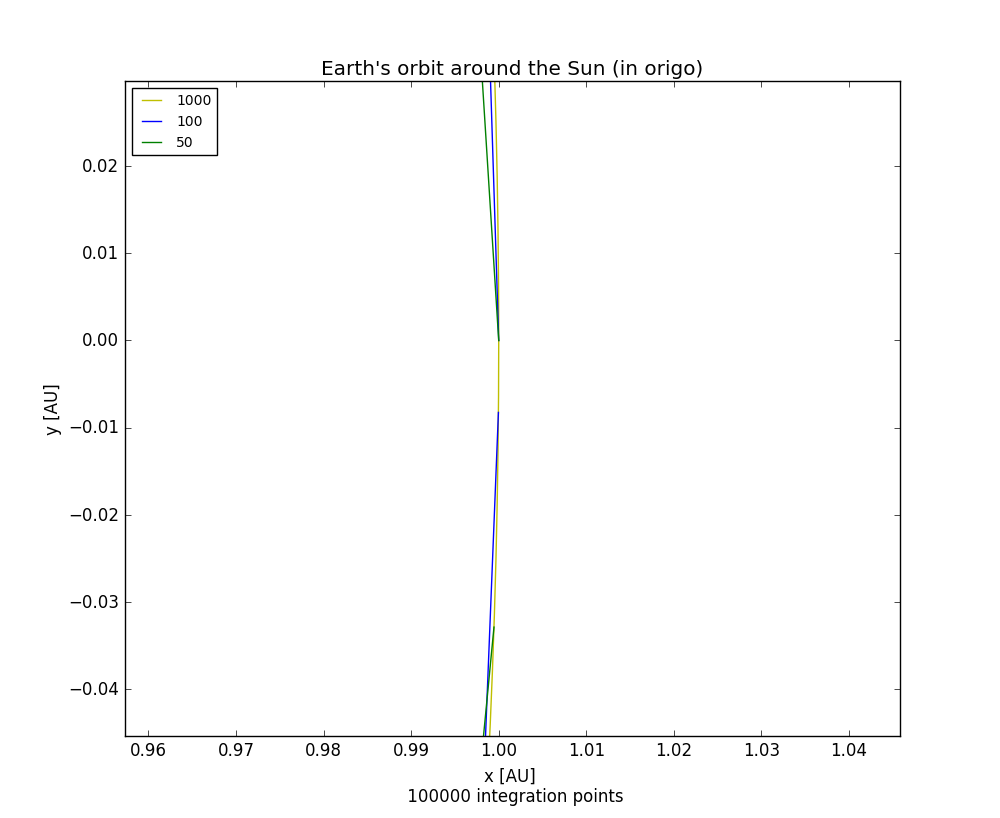
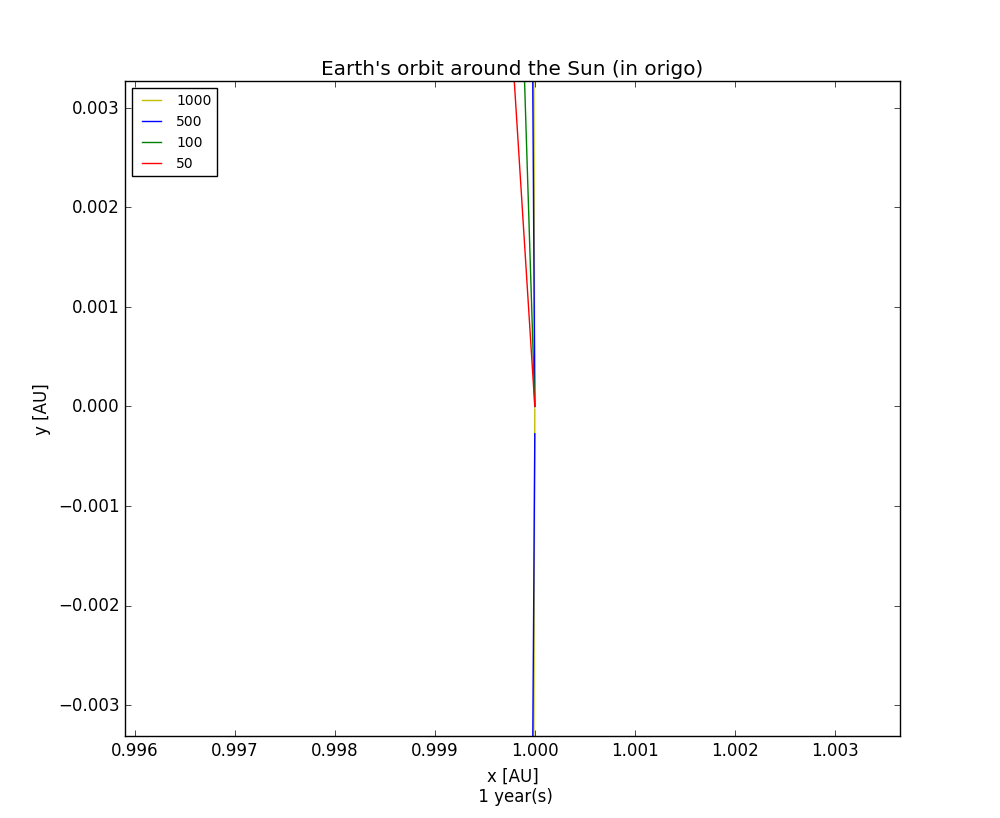
så langt

diff --git a/Problemsets/3rd/SolarSystem.py b/Problemsets/3rd/SolarSystem.py
@@ -23,22 +23,22 @@ input_matrix[0, 4:7] = velocity_sun
 input_matrix[1, 4:7] = velocity_earth
 
 #----------------------------------------------------------------------------
+def euler_or_verlet():
+    numsteps = [1000000, 100000, 10000, 1000, 100, 50]
+    time_max = 1
+    legend=[]
 
-numsteps = [1000000, 100000, 10000, 1000, 100, 50]
-time_max = 1
-legend=[]
+    for num in numsteps:
+        euler = solver(input_matrix, 'euler', time_max, num)
+        verlet = solver(input_matrix, 'verlet', time_max, num)
 
-for num in numsteps:
-    euler = solver(input_matrix, 'euler', time_max, num)
-    verlet = solver(input_matrix, 'verlet', time_max, num)
+        output_euler = euler.main()
+        xEe = output_euler[1, 0, :]
+        yEe = output_euler[1, 1, :]
 
-    output_euler = euler.main()
-    xEe = output_euler[1, 0, :]
-    yEe = output_euler[1, 1, :]
-
-    output_verlet = verlet.main()
-    xVe = output_verlet[1, 0, :]
-    yVe = output_verlet[1, 1, :]
+        output_verlet = verlet.main()
+        xVe = output_verlet[1, 0, :]
+        yVe = output_verlet[1, 1, :]
 
     if num == numsteps[0]:
         plt.figure(1, figsize=(10, 10))
@@ -51,22 +51,58 @@ for num in numsteps:
         plt.figure(2)
         plt.plot(xVe, yVe)
 
-    legend.append(str(num))
-for i in range(1, 3):
-    plt.figure(i)
-    plt.xlabel('x [AU]\n %i year(s)' %(time_max))
-    plt.ylabel('y [AU]')
-    plt.title("Earth's orbit around the Sun (in origo)")
-    plt.legend(legend, loc=2, fontsize='small')
-    plt.axis('equal')
-plt.show()
-
-
-
+        legend.append(str(num))
+    for i in range(1, 3):
+        plt.figure(i)
+        plt.xlabel('x [AU]\n %i year(s)' %(time_max))
+        plt.ylabel('y [AU]')
+        plt.title("Earth's orbit around the Sun (in origo)")
+        plt.legend(legend, loc=2, fontsize='small')
+        plt.axis('equal')
+    plt.show()
 
 #------------------------------------------------------------------------------
-x = np.linspace(0, np.pi*2, numsteps+1)
-#plt.plot(x, KE)
-#plt.plot(x, PE+KE)
-#plt.plot(x, AM)
-#plt.show()
+
+
+def energies():
+    numsteps = 10000
+    time_max = 1
+    verlet  = solver(input_matrix, 'verlet', time_max, numsteps)
+    output_matrix, KE, PE, AM = verlet.main()
+    x = np.linspace(0, 1, numsteps+1)
+    
+    plt.figure(1, figsize=(10, 10))
+    plt.plot(x, KE)
+    plt.suptitle('Total kinetic energy in the Earth-Sun system.', fontsize=24)
+    plt.xlabel('time [yr]', fontsize=16)
+    plt.ylabel('energy [AU²*kg/yr²]', fontsize=16)
+    plt.legend(['KE'])
+
+    plt.figure(2, figsize=(10, 10))
+    plt.plot(x, PE)
+    plt.suptitle('Total potential energy in the Earth-Sun system.', fontsize=24)
+    plt.xlabel('time [yr]', fontsize=16)
+    plt.ylabel('energy [AU²*kg/yr²]', fontsize=16)
+    plt.legend(['PE'])
+
+    plt.figure(3, figsize=(10, 10))
+    plt.plot(x, PE+KE)
+    plt.suptitle('Total energy in the Earth-Sun system.', fontsize=24)
+    plt.xlabel('time [yr]', fontsize=16)
+    plt.ylabel('energy [AU²*kg/yr²]', fontsize=16)
+    plt.legend(['KE+PE'])
+
+    plt.figure(4, figsize=(10, 10))
+    plt.plot(x, AM)
+    plt.suptitle('Total angular momentum in the Earth-Sun system.', fontsize=24)
+    plt.xlabel('time [yr]', fontsize=16)
+    plt.ylabel('energy [AU²/yr²]', fontsize=16)
+    plt.legend(['AM'])
+
+    plt.figure(5, figsize=(10, 10))
+    plt.plot(x, PE, x, KE, x, KE+PE)
+    plt.suptitle('Total energy in the Earth-Sun system.', fontsize=24)
+    plt.xlabel('time [yr]', fontsize=16)
+    plt.ylabel('energy [AU²*kg/yr²]', fontsize=16)
+    plt.legend(['PE', 'KE', 'KE+PE'])
+    plt.show()

diff --git a/Problemsets/3rd/solver_K.py b/Problemsets/3rd/solver_K.py
@@ -53,7 +53,7 @@ class solver():
             AM[i] = self.angular_momentum(relposition, velocity)
             # Repeating over all time steps
         # Retuning 3D output matrix
-        return out_position #, KE, PE, AM
+        return out_position, KE, PE, AM
 
 
 
